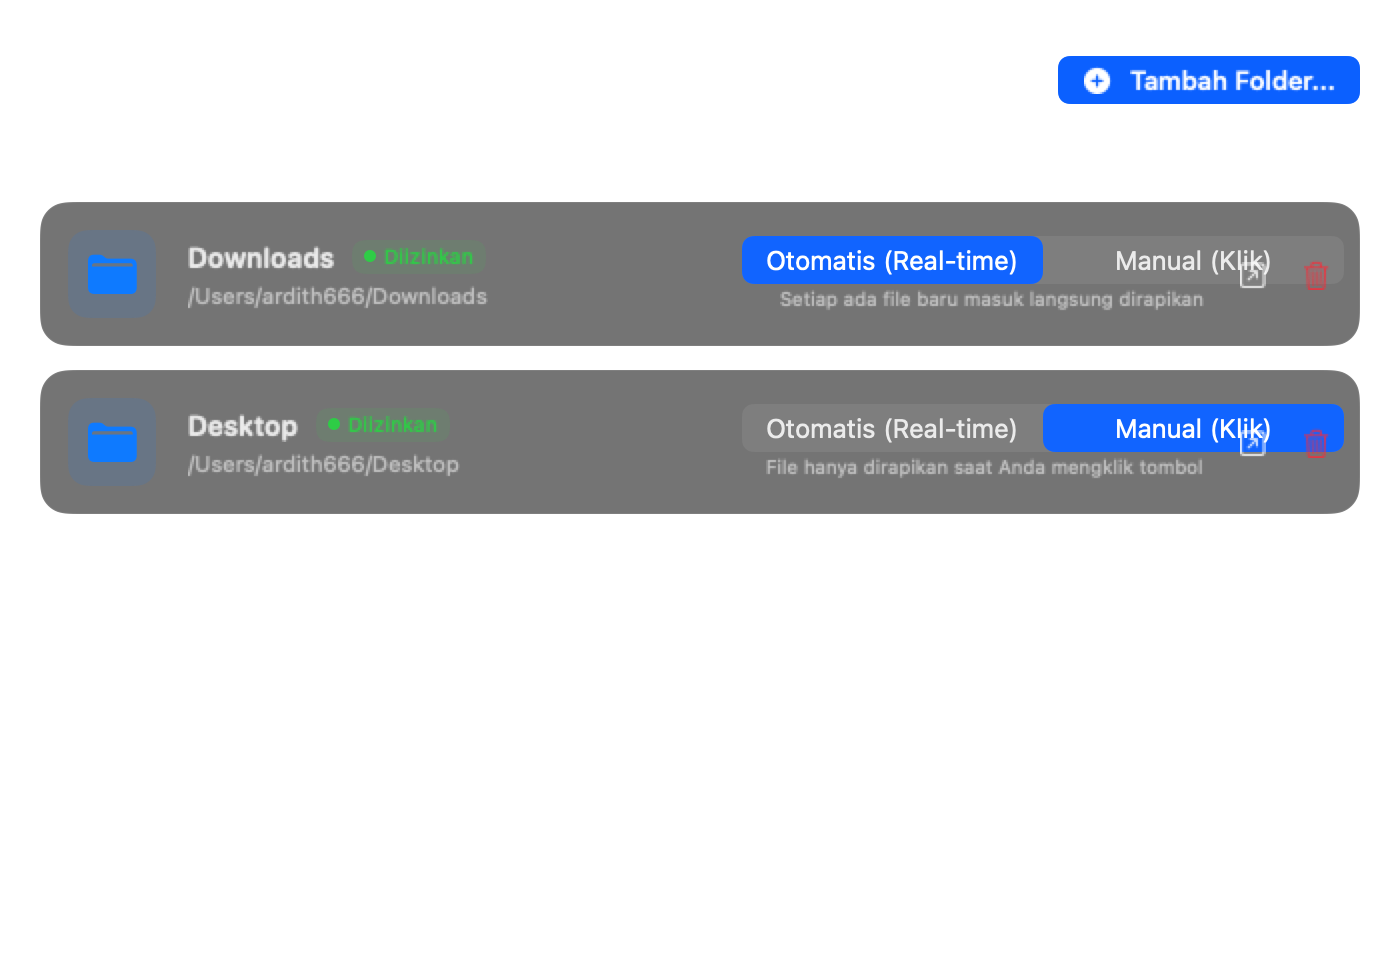
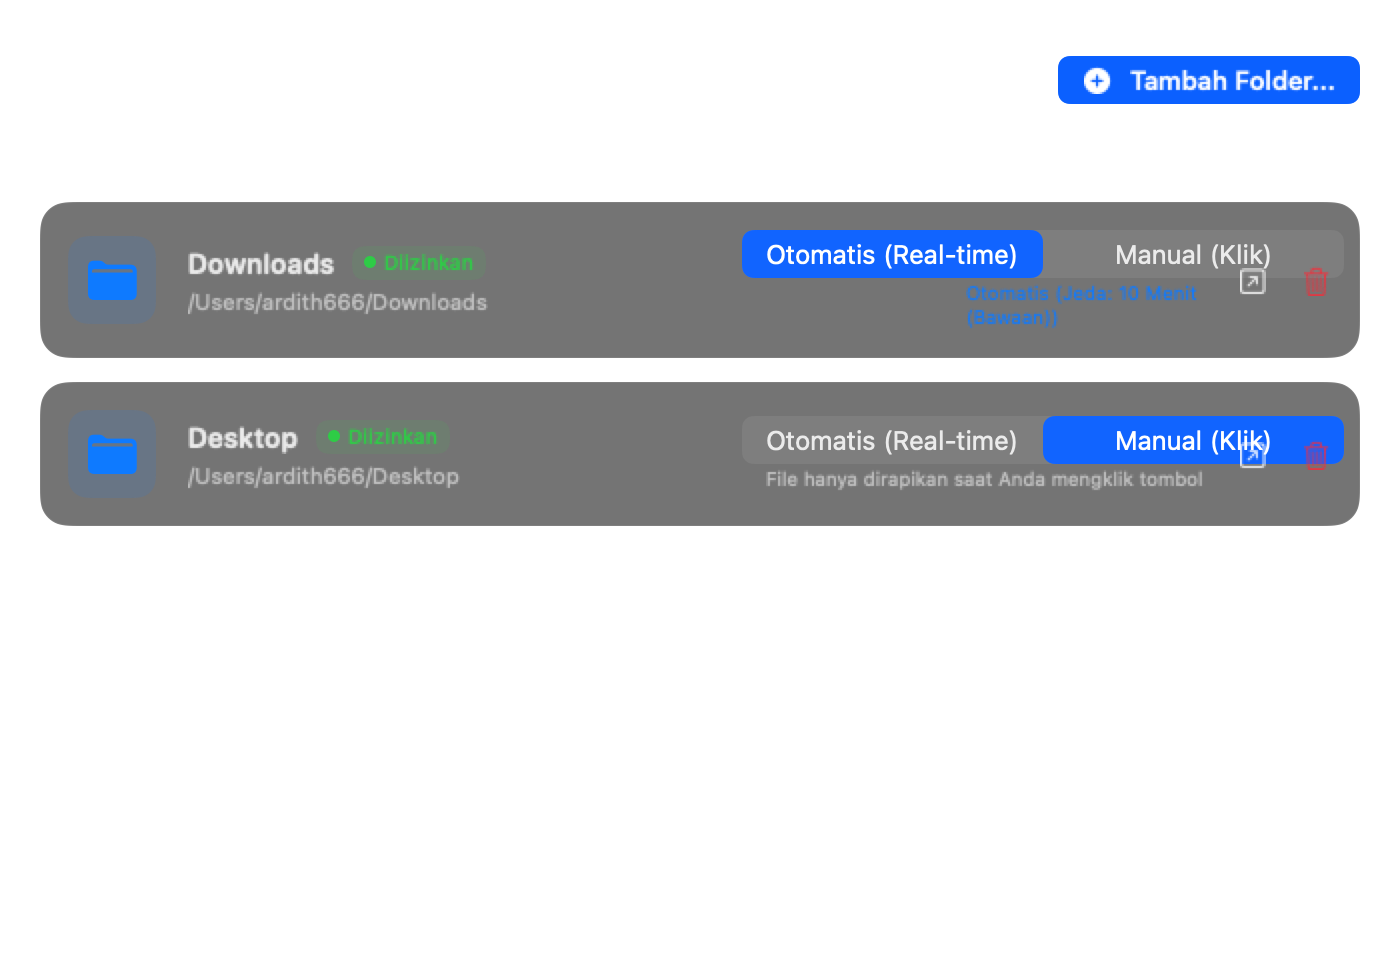
feat(settings): add auto-organize delay with 10 minutes default and watcher debounce

Changed region(s): [[0.0307, 0.2188, 0.9829, 0.5625], [0.0614, 0.4375, 0.0921, 0.5], [0.0614, 0.25, 0.0921, 0.3125]]

diff --git a/Sources/Rapihin/Services/FolderWatcher.swift b/Sources/Rapihin/Services/FolderWatcher.swift
@@ -8,6 +8,8 @@ public final class FolderWatcher: @unchecked Sendable {
     private let queue = DispatchQueue(label: "com.rapihin.folderwatcher", qos: .utility)
     
     public var onFileDetected: ((URL, MonitoredFolder) -> Void)?
+    public var onFolderTriggered: ((MonitoredFolder) -> Void)?
+    public var delaySeconds: TimeInterval = 600.0 // Default 10 minutes (600s)
     
     private init() {}
     
@@ -67,9 +69,13 @@ public final class FolderWatcher: @unchecked Sendable {
             // Invalidate prior debounce timer for this folder
             self.debounceTimers[folderPath]?.invalidate()
             
-            // Wait 2.5 seconds for file writes/downloads to stabilize
-            self.debounceTimers[folderPath] = Timer.scheduledTimer(withTimeInterval: 2.5, repeats: false) { [weak self] _ in
-                self?.scanAndDispatchNewFiles(in: folder)
+            // Wait configured delay (minimum 2.5s to allow file writes/downloads to stabilize)
+            let waitTime = max(2.5, self.delaySeconds)
+            
+            self.debounceTimers[folderPath] = Timer.scheduledTimer(withTimeInterval: waitTime, repeats: false) { [weak self] _ in
+                guard let self = self else { return }
+                self.onFolderTriggered?(folder)
+                self.scanAndDispatchNewFiles(in: folder)
             }
         }
     }
@@ -85,6 +91,7 @@ public final class FolderWatcher: @unchecked Sendable {
         ) else { return }
         
         let now = Date()
+        let allowableWindow = max(30.0, self.delaySeconds + 60.0)
         
         for fileURL in contents {
             let ext = fileURL.pathExtension.lowercased()
@@ -100,10 +107,10 @@ public final class FolderWatcher: @unchecked Sendable {
                 continue
             }
             
-            // Check file modification time (only process files modified in the last 15 seconds)
+            // Check file modification time
             if let resourceValues = try? fileURL.resourceValues(forKeys: [.contentModificationDateKey]),
                let modDate = resourceValues.contentModificationDate {
-                if now.timeIntervalSince(modDate) < 15.0 {
+                if now.timeIntervalSince(modDate) < allowableWindow {
                     self.onFileDetected?(fileURL, folder)
                 }
             }

diff --git a/Sources/Rapihin/Models/AppSettings.swift b/Sources/Rapihin/Models/AppSettings.swift
@@ -58,6 +58,41 @@ public enum SortStrategy: String, CaseIterable, Identifiable, Codable, Sendable 
     }
 }
 
+public enum AutoOrganizeDelay: Int, CaseIterable, Identifiable, Codable, Sendable {
+    case instant = 0
+    case seconds10 = 10
+    case seconds30 = 30
+    case minute1 = 60
+    case minutes5 = 300
+    case minutes10 = 600       // Default 10 menit sesuai permintaan
+    case minutes30 = 1800
+    case hour1 = 3600
+    
+    public var id: Int { rawValue }
+    public var seconds: TimeInterval { TimeInterval(rawValue) }
+    
+    public func label(for language: AppLanguage) -> String {
+        switch self {
+        case .instant:
+            return language == .indonesian ? "Langsung (Tanpa Jeda)" : "Immediate (No Delay)"
+        case .seconds10:
+            return language == .indonesian ? "10 Detik" : "10 Seconds"
+        case .seconds30:
+            return language == .indonesian ? "30 Detik" : "30 Seconds"
+        case .minute1:
+            return language == .indonesian ? "1 Menit" : "1 Minute"
+        case .minutes5:
+            return language == .indonesian ? "5 Menit" : "5 Minutes"
+        case .minutes10:
+            return language == .indonesian ? "10 Menit (Bawaan)" : "10 Minutes (Default)"
+        case .minutes30:
+            return language == .indonesian ? "30 Menit" : "30 Minutes"
+        case .hour1:
+            return language == .indonesian ? "1 Jam" : "1 Hour"
+        }
+    }
+}
+
 public struct AppSettings: Codable, Equatable, Sendable {
     public var language: AppLanguage = .indonesian
     public var launchAtLogin: Bool = false
@@ -65,6 +100,7 @@ public struct AppSettings: Codable, Equatable, Sendable {
     public var destinationBaseFolder: String = ""
     public var subfolderStructure: SubfolderStructure = .categoryOnly
     public var sortStrategy: SortStrategy = .createdAt
+    public var autoOrganizeDelay: AutoOrganizeDelay = .minutes10
     public var prefixDateToName: Bool = false
     public var cleanFileNames: Bool = true
     public var playSounds: Bool = true

diff --git a/Tests/RapihinTests/RapihinTests.swift b/Tests/RapihinTests/RapihinTests.swift
@@ -91,6 +91,35 @@ struct RapihinTests {
         #expect(decoded.hasPermission == true)
     }
 
+    @Test("Test Auto-Organize Delay Configuration and Defaults")
+    @MainActor
+    func testAutoOrganizeDelay() throws {
+        let settings = AppSettings()
+        // Default must be 10 minutes as requested
+        #expect(settings.autoOrganizeDelay == .minutes10)
+        #expect(settings.autoOrganizeDelay.seconds == 600.0)
+        #expect(settings.autoOrganizeDelay.label(for: .indonesian) == "10 Menit (Bawaan)")
+        #expect(settings.autoOrganizeDelay.label(for: .english) == "10 Minutes (Default)")
+        
+        // Verify all delay tiers
+        #expect(AutoOrganizeDelay.instant.seconds == 0.0)
+        #expect(AutoOrganizeDelay.seconds10.seconds == 10.0)
+        #expect(AutoOrganizeDelay.seconds30.seconds == 30.0)
+        #expect(AutoOrganizeDelay.minute1.seconds == 60.0)
+        #expect(AutoOrganizeDelay.minutes5.seconds == 300.0)
+        #expect(AutoOrganizeDelay.minutes10.seconds == 600.0)
+        #expect(AutoOrganizeDelay.minutes30.seconds == 1800.0)
+        #expect(AutoOrganizeDelay.hour1.seconds == 3600.0)
+        
+        // Serialization check
+        var customSettings = AppSettings()
+        customSettings.autoOrganizeDelay = .seconds30
+        let encoded = try JSONEncoder().encode(customSettings)
+        let decoded = try JSONDecoder().decode(AppSettings.self, from: encoded)
+        #expect(decoded.autoOrganizeDelay == .seconds30)
+        #expect(decoded.autoOrganizeDelay.seconds == 30.0)
+    }
+
     @Test("Test In-Place Organization & Category Only Default")
     @MainActor
     func testInPlaceDefaults() async {

diff --git a/Sources/Rapihin/Services/LocalizationManager.swift b/Sources/Rapihin/Services/LocalizationManager.swift
@@ -73,6 +73,9 @@ public final class LocalizationManager: ObservableObject {
         // Settings - General & Autostart
         "settings_general": "Umum & Mulai Otomatis",
         "settings_language": "Bahasa Aplikasi",
+        "settings_delay_section": "Otomasi & Jeda Waktu (Auto-Organize Delay)",
+        "settings_auto_delay": "Jeda Perapihan Otomatis",
+        "settings_auto_delay_desc": "Waktu tunggu setelah berkas baru terdeteksi sebelum mulai merapikan secara otomatis (Bawaan: 10 Menit). Memberi ruang aman saat berkas sedang diedit atau diunduh.",
         "settings_autostart": "Mulai Otomatis saat Login (Launch at Login)",
         "settings_autostart_desc": "Aplikasi akan otomatis berjalan di latar belakang saat Mac menyala",
         "settings_start_minimized": "Mulai Senyap di Menu Bar",
@@ -170,6 +173,9 @@ public final class LocalizationManager: ObservableObject {
         // Settings - General & Autostart
         "settings_general": "General & Autostart",
         "settings_language": "App Language",
+        "settings_delay_section": "Automation & Auto-Organize Delay",
+        "settings_auto_delay": "Auto-Organize Delay",
+        "settings_auto_delay_desc": "Wait time after a new file arrives before automatically organizing (Default: 10 Minutes). Prevents disruption while files are being edited or downloaded.",
         "settings_autostart": "Launch at Login",
         "settings_autostart_desc": "Automatically run in the background when your Mac starts up",
         "settings_start_minimized": "Start Minimized in Menu Bar",

diff --git a/Sources/Rapihin/Services/OrganizerEngine.swift b/Sources/Rapihin/Services/OrganizerEngine.swift
@@ -29,15 +29,23 @@ public final class OrganizerEngine: ObservableObject {
     
     // MARK: - Setup & Persistence
     private func setupWatcher() {
+        watcher.delaySeconds = settings.autoOrganizeDelay.seconds
         watcher.onFileDetected = { [weak self] fileURL, folder in
             Task { @MainActor in
                 await self?.organizeSingleFile(fileURL, from: folder)
+            }
+        }
+        watcher.onFolderTriggered = { [weak self] folder in
+            Task { @MainActor in
+                _ = await self?.organizeFilesInFolder(folder)
+                self?.recalculatePendingFiles()
             }
         }
         watcher.startWatching(folders: monitoredFolders)
     }
     
     public func saveSettings() {
+        watcher.delaySeconds = settings.autoOrganizeDelay.seconds
         if let encoded = try? JSONEncoder().encode(settings) {
             UserDefaults.standard.set(encoded, forKey: settingsKey)
         }
@@ -53,6 +61,7 @@ public final class OrganizerEngine: ObservableObject {
                 saveSettings()
             }
         }
+        watcher.delaySeconds = settings.autoOrganizeDelay.seconds
     }
     
     public func saveMonitoredFolders() {

diff --git a/Sources/Rapihin/Views/SettingsView.swift b/Sources/Rapihin/Views/SettingsView.swift
@@ -54,6 +54,25 @@ public struct SettingsView: View {
             }
             
             Section {
+                // Auto-Organize Delay
+                Picker(l10n.localized("settings_auto_delay"), selection: $engine.settings.autoOrganizeDelay) {
+                    ForEach(AutoOrganizeDelay.allCases) { delay in
+                        Text(delay.label(for: l10n.language)).tag(delay)
+                    }
+                }
+                .pickerStyle(.menu)
+                .onChange(of: engine.settings.autoOrganizeDelay) { _, _ in
+                    engine.saveSettings()
+                }
+                
+                Text(l10n.localized("settings_auto_delay_desc"))
+                    .font(.system(size: 11))
+                    .foregroundColor(.secondary)
+            } header: {
+                Text(l10n.localized("settings_delay_section"))
+            }
+            
+            Section {
                 // Autostart at Login
                 Toggle(isOn: Binding(
                     get: { autostart.isEnabled },

diff --git a/Sources/Rapihin/Views/FolderManagementView.swift b/Sources/Rapihin/Views/FolderManagementView.swift
@@ -115,9 +115,9 @@ public struct FolderManagementView: View {
                 .pickerStyle(.segmented)
                 .frame(width: 170)
                 
-                Text(folder.isAuto ? l10n.localized("mode_auto_desc") : l10n.localized("mode_manual_desc"))
+                Text(folder.isAuto ? (l10n.language == .indonesian ? "Otomatis (Jeda: \(engine.settings.autoOrganizeDelay.label(for: l10n.language)))" : "Auto (Delay: \(engine.settings.autoOrganizeDelay.label(for: l10n.language)))") : l10n.localized("mode_manual_desc"))
                     .font(.system(size: 9.5))
-                    .foregroundColor(.secondary)
+                    .foregroundColor(folder.isAuto ? .blue : .secondary)
             }
             
             // Open in Finder

diff --git a/Casks/rapihin.rb b/Casks/rapihin.rb
@@ -1,6 +1,6 @@
 cask "rapihin" do
   version "1.0.0"
[2 lines of base64/hex data omitted]
 
   url "https://github.com/ardith666/rapihin/releases/download/v#{version}/Rapihin-#{version}.dmg"
   name "Rapihin"
